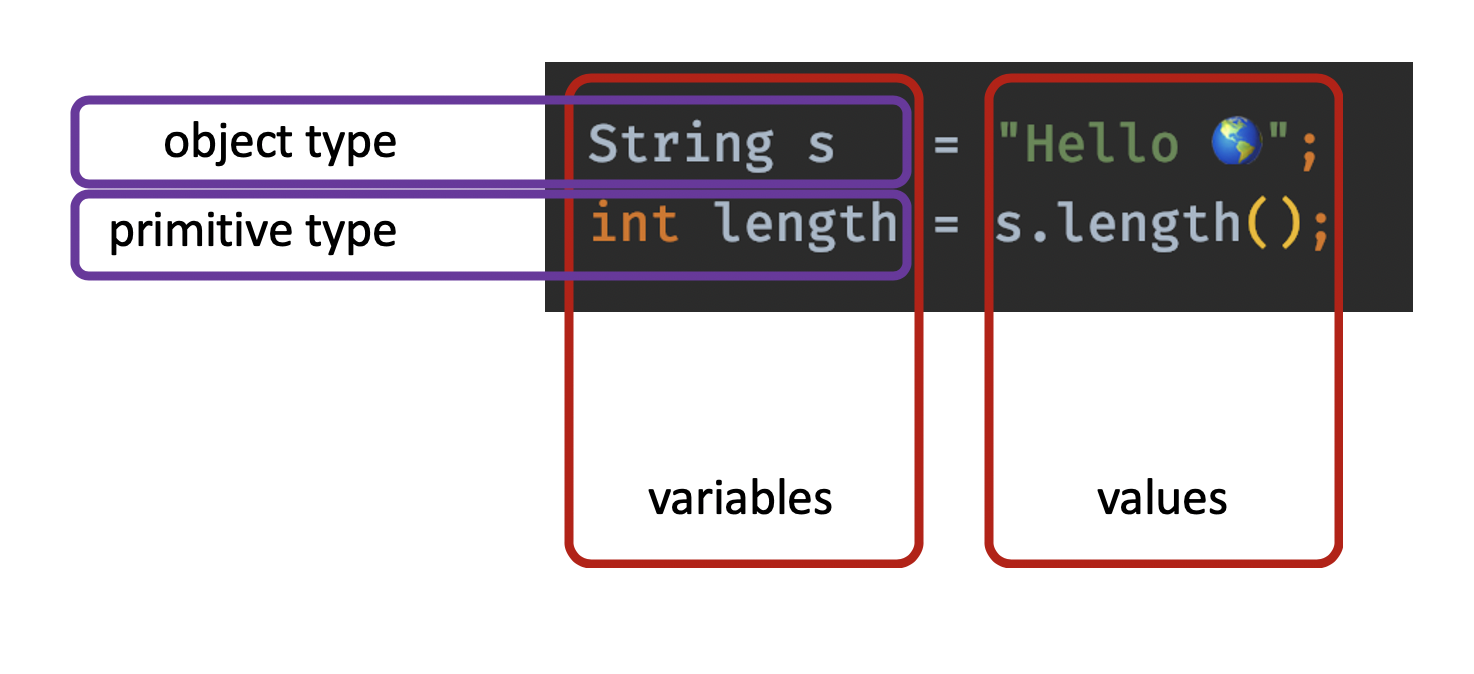
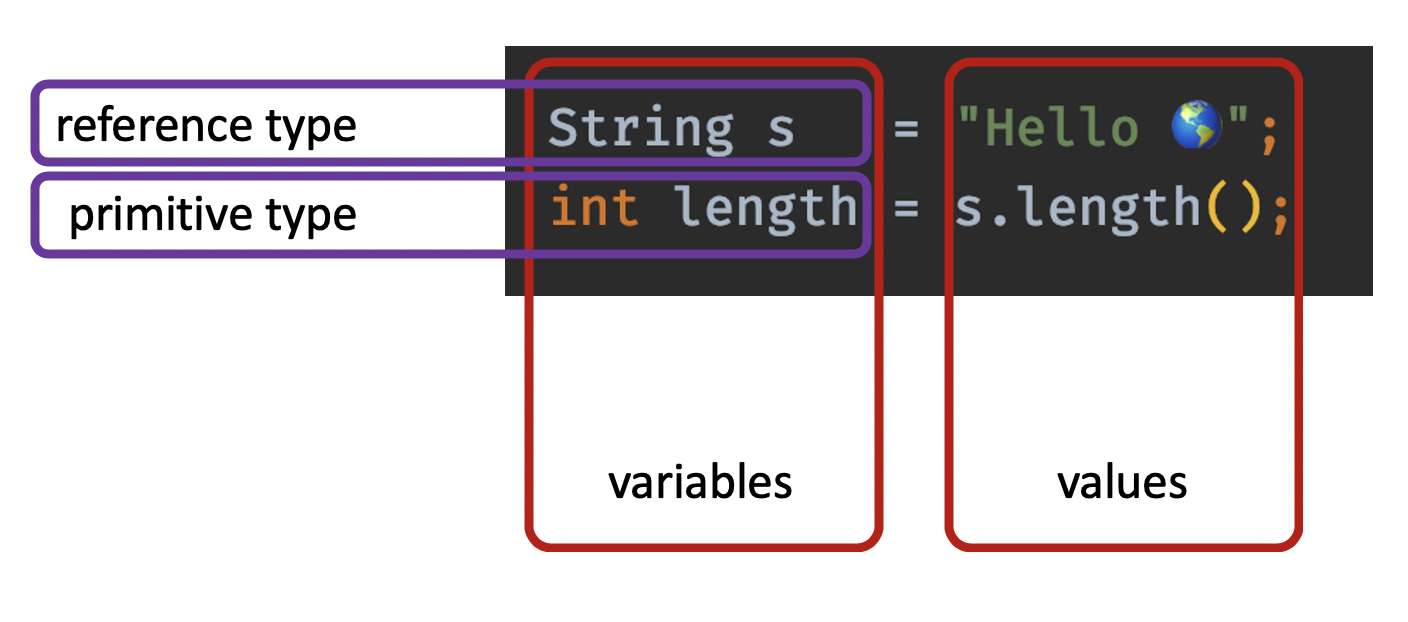
Add stack & heap examples

Changed region(s): [[0.0, 0.0611, 1.0, 0.8859]]

diff --git a/02 - Data Types.md b/02 - Data Types.md
@@ -6,12 +6,16 @@
 1. [JShell](#jshell)
 1. [Numbers and Strings (Variables and Scope)](#numbers-and-strings-variables-and-scope)
     1. [Primitive Types](#primitive-types)
-    1. [Object Types (the rest)](#object-types-the-rest)
+    1. [Reference Types (the rest)](#reference-types-the-rest)
     1. [Variables and their Values](#variables-and-their-values)
 1. [Stack and Heap](#stack-and-heap)
     1. [OS Process Memory](#os-process-memory)
-    1. [What goes in the Stack?](#what-goes-in-the-stack)
-    1. [What goes in the Heap?](#what-goes-in-the-heap)
+    1. [What goes in the Java stack?](#what-goes-in-the-java-stack)
+    1. [What goes in the Java Heap?](#what-goes-in-the-java-heap)
+    1. [Variables without a value](#variables-without-a-value)
+    1. [Can we have a reference variable without the equivalent object in the Java heap (null)?](#can-we-have-a-reference-variable-without-the-equivalent-object-in-the-java-heap-null)
+        1. [What happens if we try to call a method on a null object?](#what-happens-if-we-try-to-call-a-method-on-a-null-object)
+        1. [What is NullPointerException?](#what-is-nullpointerexception)
     1. [String or new String?](#string-or-new-string)
 1. [Operators](#operators)
 1. [Autoboxing](#autoboxing)
@@ -331,15 +335,15 @@ The primitive types in Java, are all in lower case.  It is an `int` and not `Int
 
 Note that the String type is not in the above list.
 
-### Object Types (the rest)
+### Reference Types (the rest)
 
-The `String` type, like anything else apart from the above primitives, is an object.
+The `String` type, like anything else apart from the above primitives, is a reference type.
 
-We can create as many new object types as we need and this is covered in [Classes, Methods and Control Flow section](03%20-%20Classes,%20Methods%20and%20Control%20Flow.md).
+We can create as many new reference types as we need and this is covered in [Classes, Methods and Control Flow section](03%20-%20Classes,%20Methods%20and%20Control%20Flow.md).
 
-By convention, object types start with a capital letter.  It is a `String` and not a `string`.  Nothing stops us from create our own object type in lower-case, but this is discouraged.
+By convention, reference types start with a capital letter.  It is a `String` and not a `string`.  Nothing stops us from create our own reference type using lower-case, but this is discouraged.
 
-One of the main differences between primitives and object types, is that the latter support functionality.
+One of the main differences between primitives and reference types, is that the latter support functionality (methods).
 
 Consider the following example.
 
@@ -357,7 +361,7 @@ public class App {
 }
 ```
 
-The string has a method called `length()`, which returns the number of bytes (not necessary letters) the string is consuming.  The above program prints.
+The `String` type has a method called `length()`, which returns the number of bytes (not necessary letters) the string requires to store our string in memory.  The above program prints.
 
 ```bash
 The string 'Hello 🌎' is 8 bytes (not necessary letters) long
@@ -369,30 +373,53 @@ It is important to make the distinction between variables, types and values.
 
 ![Variables and their Values](assets/images/Variables%20and%20values.png)
 
+Observations:
+1. Variables must have a type
+1. Variables' type does not change throughout their existence
+1. Variables can contain values of the same type (or a type can be safely stored by the variable)
+
 ## Stack and Heap
 
 ### OS Process Memory
 
-Process memory is divided into four part:
+The OS process memory is divided into four segments:
 
-1. The **text** part comprises the compiled program code
-1. The **data** part stores global and static variables, allocated and initialized prior to executing main
-1. The **heap** is used for dynamic memory allocation
-1. The **stack** is used for local variables
+1. The **text** segment comprises the compiled program code (**Not our Java code, but the JVM**)
+1. The **data** part stores global and static variables, allocated and initialized prior to executing main (**Used by the JVM and not our Java code**)
+1. The **heap** is used for dynamic memory allocation (**The JVM maintains very something similar**)
+1. The **stack** is used for local variables (**The JVM maintains very something similar**)
 
 ![Process Memory Model](assets/images/Process%20Memory%20Model.png)
 
-Note that the stack and the heap start at opposite ends of the process's free space and grow towards each other.  If they should ever meet, then either a stack overflow error will occur.
+The *text* and *data* segments are fixed and their size does not change during the program's lifetime.
 
-When working with Java we mainly work with the stack and the heap.
+The *stack* and the *heap* segments start at opposite ends of the process's free space and grow towards each other.  If they should ever meet, then either a stack overflow or out of memory error will occur.
 
-### What goes in the Stack?
+When working with Java we mainly work with the *Java stack* and the *Java heap*.  It is important to note that the OS process memory and the memory we work with within the JVM behave similarly but are different things.
 
-When our Java program starts it calls our `main()` method.  When it does so, it adds an entry in the stack.  Every time a method is called, Java adds an entry in the stack, and it removes this entry once the method is complete.
+Consider the following command, used to start our application.
 
-Once the stack is empty, our program completes.  Once the `main()` method finishes execution, Java will remove the last entry in the stack and the program completes.  We will revise this once we discuss [threads and concurrency](11%20-%20Concurrency.md).
+```bash
+$ java -jar application.jar
+```
 
-All variables created and used within the method are stored in the stack.  Consider the following example.
+The `java` is an executable file and when executed the JVM is started.  The `java` command starts an instance of the JVM.  We can have many JVM instances running, each on a separate OS process.
+
+The JVM uses the OS process memory, shown above, to run and execute our code.  Our code runs within the JVM - a program (our code) runs within another program (JVM).  The JVM executable code (**not our code**) is loaded into the *text* OS process memory and the constants and process level variables of the JVM are stored in the *data* segment of the memory.
+
+Internally, the JVM maintains its own *stack* and *heap* (which we will refer to the *Java stack* and *Java heap*), which while these behave similar to the OS process memory, they are different.
+
+**We will only focus on the *Java stack* and *Java heap* from this point onwards**.
+
+### What goes in the Java stack?
+
+When our Java program starts Java calls our `main()` method.  When Java does so, it adds an entry in the *Java stack*.  Every time a method is called, Java adds an entry in the *Java stack*, and it removes this entry once the method completes.
+
+Once the *Java stack* is empty, our program completes.  Once the `main()` method finishes execution, Java will remove the last entry in the *Java stack* and the program completes.  We will revise and elaborates this when we discuss [threads and concurrency](11%20-%20Concurrency.md).
+
+All variables created and used within a method are stored in the *Java stack*.
+
+Consider the following example.
 
 ```java
 package demo;
@@ -406,51 +433,54 @@ public class App {
 }
 ```
 
-The `main()` is
+The `main()` method is
 1. receiving the command line arguments
+    (`String[] args`)
 1. creating a local variable
+    (`int a = 7;`)
 1. calling another method to print a simple message
+    (`System.out.printf( "The value of a is %d%n", a );`)
 
-The stack entry that was created for the `main()` method and made space for two variables, amongst other things.  Then the `main()` calls the `printf()` method.  Java will create a new stack entry for the `printf()`.
+A *Java stack* entry is created for the `main()` method, which will contain two variables, amongst other things.  Then the `main()` method calls (or invokes) the `printf()` method.  Java will create a new *Java stack* entry for the `printf()` method.
 
 ![Stack - main() calls printf()](assets/images/Stack%20-%20main()%20calls%20printf().png)
 
-Every time a method is called, Java adds a new entry in the stack.
+Every time a method is called, Java adds a new entry in the *Java stack*.
 
 Consider the following example
 
 ![Stack - showing 4 methods](assets/images/Stack%20-%20showing%204%20methods.png)
 
 Based on the above image, we see that
-1. The `main()` method called method `a()`, which in turn called method `b()`, which called method `d()`.
-1. The size of stack entry for each method depends on the number of variables this method contains.  It is clear that method `b()` is quite big when compared with the others.  This means that method `b()` create lots of variables.
-1. The method `c()` is the current method.  Java is currently executing this method.
+1. The `main()` method called method `a()`, which in turn called method `b()`, which called method `c()`.
+1. The size of *Java stack* entry for each method depends on the number of variables each method contains.  It is clear that method `b()` is quite big when compared with the others.  This means that method `b()` has lots of variables.
+1. Method `c()` is the current active method.  Java is currently executing this method.  The method at the top of the *Java stack*, is the active method.
 
-Java has two types of variables
-1. primitives
-1. objects
+Java has [two types of variables](https://docs.oracle.com/javase/specs/jls/se14/html/jls-4.html#jls-4.12)
+1. [primitive types](https://docs.oracle.com/javase/specs/jls/se14/html/jls-4.html#jls-4.12.1)
+1. [reference types (also referred to as objects)](https://docs.oracle.com/javase/specs/jls/se14/html/jls-4.html#jls-4.12.2)
 
-Primitives variables are stored in the heap.  Consider the following variable
+The primitives variables are stored in the *Java stack*.  Consider the following variable.
 
 ```java
 int a = 7;
 ```
 
-The variable `a` is a primitive type and in this case, the value `7` is saved in the heap.
+The variable named `a` is a primitive type.  The value of the primitive variables, `7` in this case, is stored in the *Java stack*.
 
-Object type variables, are stored in two places on the memory.
-1. The variable itself, is saved in the stack
-1. The actual object is **not saved** in the stack and is saved in the heap.
+Reference type variables are stored in two places in the memory.
+1. The variable itself, is stored in the *Java stack*
+1. The actual object is **not stored** in the *Java stack*.  It is stored in the *Java heap*.
 
-### What goes in the Heap?
+### What goes in the Java Heap?
 
-The heap contains all our objects.
+The *Java heap* contains all our objects.
 
 ```java
 String s = "my object type";
 ```
 
-The variable `s` is saved in the stack while the actual object `"my object type"` is saved in the heap.  The variable `s` will have an object reference (we do not use the term pointer like in C/C++ but it behaves very similarly) to the object in the heap.
+The reference type variable `s` is stored in the *Java stack* while the actual object `"my object type"` is stored in the *Java heap*.  The reference type variable `s` will have a reference, hence the name reference type, to the object in the *Java heap*.  Note that we do not use the term *pointer*, like in C/C++, in Java, despite these behave in a similar way.
 
 Consider the following two variables
 
@@ -461,7 +491,11 @@ String s = "my object type";
 
 ![Stack and Heap](assets/images/Stack%20and%20Heap.png)
 
-The variables are only found in the stack, and objects are only found in the heap.  The more variables we have the more we consume from the stack.  Having large objects, will not affect the stack as all objects data is saved in the heap.
+The variables (both types) are only found in the *Java stack*, while the objects are only found in the *Java heap*.  The size of the *Java stack* entry for our method is directly proportional to the amount of variables our method has.
+
+The size of the method itself, like the number of lines of code, is not part of the *Java stack* and is stored elsewhere.
+
+Having large objects, will not affect the *Java stack* as all objects data is stored in the *Java heap*.
 
 Consider the following example
 
@@ -473,9 +507,144 @@ String s2 = s;
 String s3 = s;
 ```
 
-In the above code we have 5 variables, one primitive type and one object type.
+In the above code we have 5 variables, one primitive type and four reference types, and an object.
 
 ![Many Variables One Object](assets/images/Many%20Variables%20One%20Object.png)
+
+All reference type variables are pointing to the same object in the *Java heap*.
+
+This is quite an important thing to note as if the object in the heap is modified through one of the variables, all the other variables will be affected.
+
+Consider the following example.
+
+```java
+package demo;
+
+import java.awt.Point;
+
+public class App {
+
+  public static void main( String[] args ) {
+    /* Create an object */
+    Point a = new Point( 5, 5 );
+    Point b = a;
+    Point c = a;
+
+    /* Modify the object through one of the variables */
+    b.x = 7;
+    c.y = 3;
+
+    System.out.printf( "Point - x:%d, y:%d%n", a.x, a.y );
+  }
+}
+```
+
+The Java API have a class called `Point` that represents a point on a cartesian space.
+
+1. Three variables, `a`, `b` and `c` are created and assigned the same object
+
+    ![One Point Three Variables](assets/images/One%20Point%20Three%20Variables%20-%20A.png)
+
+1. The `x` coordinate is modified through variable `b`
+
+    ![One Point Three Variables](assets/images/One%20Point%20Three%20Variables%20-%20B.png)
+
+1. The `y` coordinate is modified through variable `c`
+
+    ![One Point Three Variables](assets/images/One%20Point%20Three%20Variables%20-%20C.png)
+
+The above program will print
+
+```bash
+Point - x:7, y:3
+```
+
+### Variables without a value
+
+A variable can be declared but not initialised.  Such variable cannot be used before it is initialised.
+
+**⚠ THE FOLLOWING DOES NOT COMPILE!!**
+
+```java
+package demo;
+
+public class App {
+
+  public static void main( String[] args ) {
+    int a;
+    System.out.printf( "%d%n", a );
+  }
+}
+```
+
+When compiling the above code, we will get an error similar to the following.
+
+```bash
+$ ./gradlew clean build
+
+> Task :compileJava FAILED
+src/main/java/demo/App.java:7: error: variable a might not have been initialized
+    System.out.printf( "%d%n", a );
+                               ^
+```
+
+The variable will apprear on the *Java stack* once a value is assigned to it.  There are cases, where a default value is assigned to variables, but this does not apply to local variables.
+
+### Can we have a reference variable without the equivalent object in the Java heap (null)?
+
+Yes.  We can have reference type variables that do not yet have an equivalent object in the *Java heap*.  As mentioned in the [previous section](#variables-without-a-value), we cannot use variables that do not have a value.
+
+Reference types may be assigned `null`.
+
+Consider the following example
+
+```java
+package demo;
+
+public class App {
+
+  public static void main( String[] args ) {
+    String a = null;
+    System.out.printf( "a = %s%n", a );
+  }
+}
+```
+
+The variable `a` is assigned the special value `null`.  This is a special value which points to a special place in memory, referred to the [Zero page](https://en.wikipedia.org/wiki/Zero_page).
+
+![nulls](assets/images/null,%20stack%20and%20heap.png)
+
+#### What happens if we try to call a method on a null object?
+
+The `String` class has the `length()` which returns the number of bytes the string requires in the *Java heap*.
+
+In this case we are not consuming anything in the *Java heap*, thus one may assume that the `length()` should return `0`.  Unfortunately, it does not work like that.
+
+Consider the following example.
+
+```java
+package demo;
+
+public class App {
+
+  public static void main( String[] args ) {
+    String a = null;
+    int length = a.length();
+    System.out.printf( "The length of string is %d%n", length );
+  }
+}
+```
+
+The (reference type) variable `a` is set to the special value `null`.  The above code compiles, but fails with the following error.
+
+```bash
+Exception in thread "main" java.lang.NullPointerException
+	at demo.App.main(App.java:7)
+```
+
+#### What is NullPointerException?
+
+The error `NullPointerException` is one of the most common errors in Java.  This is cause when we try to invoke methods on a `null` object.  It is quite simple, yet drives people crazy and [caused billions to the industry](https://www.infoq.com/presentations/Null-References-The-Billion-Dollar-Mistake-Tony-Hoare/).
 
 ### String or new String?
 

diff --git a/README.md b/README.md
@@ -40,12 +40,16 @@ Boot Camp for developers interested to learn Java.
 1. [JShell](02%20-%20Data%20Types.md#jshell)
 1. [Numbers and Strings (Variables and Scope)](02%20-%20Data%20Types.md#numbers-and-strings-variables-and-scope)
     1. [Primitive Types](02%20-%20Data%20Types.md#primitive-types)
-    1. [Object Types (the rest)](02%20-%20Data%20Types.md#object-types-the-rest)
+    1. [Reference Types (the rest)](02%20-%20Data%20Types.md#reference-types-the-rest)
     1. [Variables and their Values](02%20-%20Data%20Types.md#variables-and-their-values)
 1. [Stack and Heap](02%20-%20Data%20Types.md#stack-and-heap)
     1. [OS Process Memory](02%20-%20Data%20Types.md#os-process-memory)
-    1. [What goes in the Stack?](02%20-%20Data%20Types.md#what-goes-in-the-stack)
-    1. [What goes in the Heap?](02%20-%20Data%20Types.md#what-goes-in-the-heap)
+    1. [What goes in the Java stack?](02%20-%20Data%20Types.md#what-goes-in-the-java-stack)
+    1. [What goes in the Java Heap?](02%20-%20Data%20Types.md#what-goes-in-the-java-heap)
+    1. [Variables without a value](02%20-%20Data%20Types.md#variables-without-a-value)
+    1. [Can we have a reference variable without the equivalent object in the Java heap (null)?](02%20-%20Data%20Types.md#can-we-have-a-reference-variable-without-the-equivalent-object-in-the-java-heap-null)
+        1. [What happens if we try to call a method on a null object?](02%20-%20Data%20Types.md#what-happens-if-we-try-to-call-a-method-on-a-null-object)
+        1. [What is NullPointerException?](02%20-%20Data%20Types.md#what-is-nullpointerexception)
     1. [String or new String?](02%20-%20Data%20Types.md#string-or-new-string)
 1. [Operators](02%20-%20Data%20Types.md#operators)
 1. [Autoboxing](02%20-%20Data%20Types.md#autoboxing)
